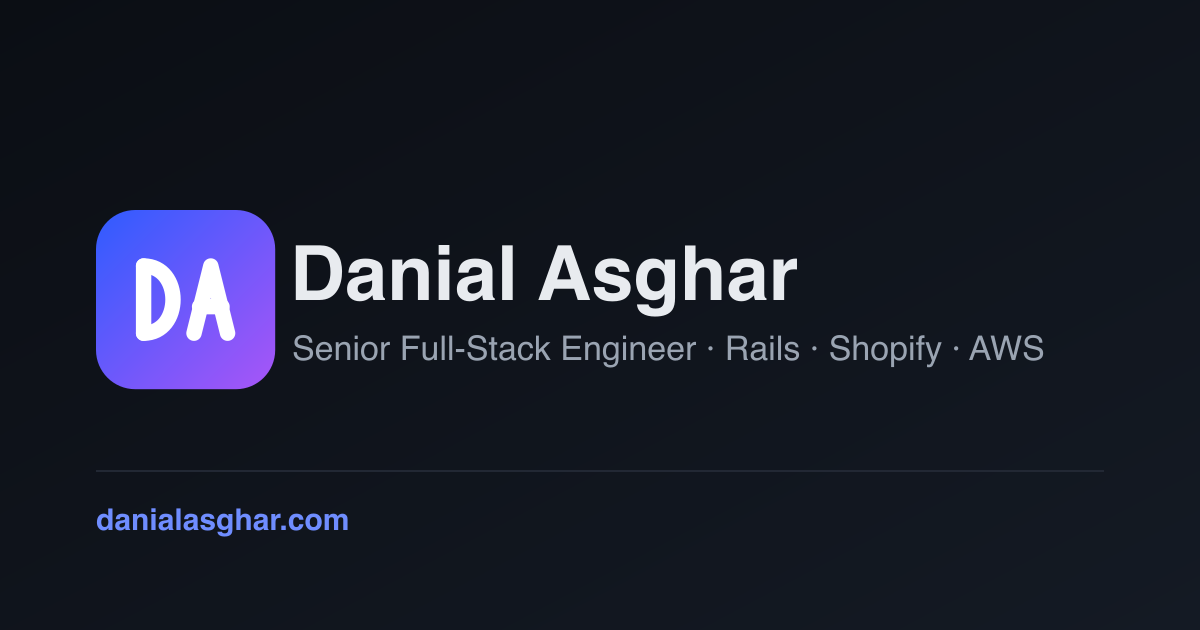
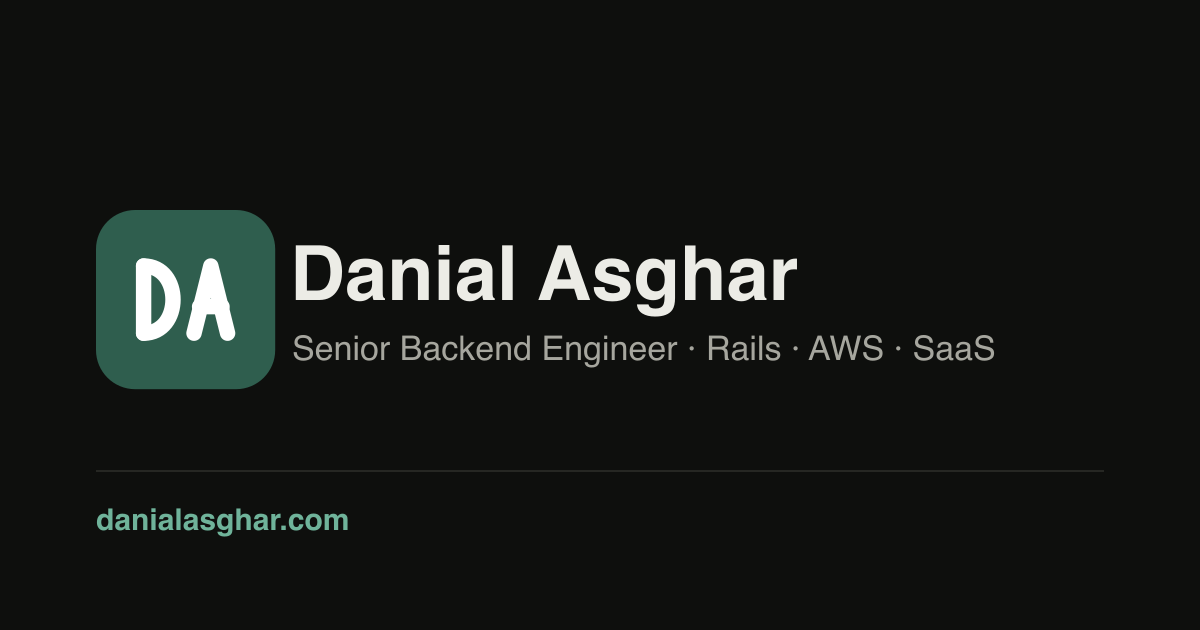
Refine layout components: Implement Google Fonts, Shiki dual-themes, custom spacing grids, and style tokens

Changed region(s): [[0.0617, 0.3317, 0.2467, 0.6333], [0.3392, 0.5127, 0.8942, 0.6032], [0.0617, 0.8143, 0.3083, 0.8444]]

diff --git a/src/styles/global.css b/src/styles/global.css
@@ -1,108 +1,109 @@
 /*
-  Design system for danialasghar.dev
-  Single source of truth: color tokens, 8px spacing scale, type scale, container widths.
-  Long-form prose uses the local Atkinson font; UI/headings use a system geometric stack
-  (renders as San Francisco / Segoe / Roboto — premium, zero network cost).
+  Design system — danialasghar.com  (Phase 2A/2B)
+  One source of truth: editorial color palette, 4px-based spacing, type scale, layout.
+  Headings/UI: IBM Plex Sans · Body/articles: Source Serif 4 · Code: JetBrains Mono.
 */
 
 :root {
-	/* ---- Color: light ---- */
-	--bg: #ffffff;
-	--bg-subtle: #f6f7f9;
-	--bg-elevated: #ffffff;
-	--text: #0f141a;
-	--text-muted: #56606e;
-	--text-faint: #8b94a1;
-	--border: #e7e9ec;
-	--border-strong: #d6dae0;
-	--card-bg: #ffffff;
+	/* ---- Color: light (editorial) ---- */
+	--bg: #FBFBFA;
+	--card-bg: #FFFFFF;       /* surface */
+	--bg-subtle: #F4F4F2;
+	--bg-elevated: #FFFFFF;
+	--text: #1A1A18;          /* primary */
+	--text-muted: #5C5C57;    /* secondary */
+	--text-faint: #8A8A83;    /* muted */
+	--border: #E6E6E1;
+	--border-strong: #D8D8D2;
 
-	--brand: #2f5cff;
-	--brand-hover: #1f47e0;
-	--brand-contrast: #ffffff;
-	--brand-soft: color-mix(in srgb, var(--brand) 12%, transparent);
-	--brand-ring: color-mix(in srgb, var(--brand) 30%, transparent);
+	--brand: #2F5E4E;         /* accent */
+	--brand-hover: #274F42;
+	--brand-contrast: #FFFFFF;
+	--brand-soft: color-mix(in srgb, var(--brand) 10%, transparent);
+	--brand-ring: color-mix(in srgb, var(--brand) 28%, transparent);
 
-	/* ---- Spacing: 8px grid ---- */
-	--s-1: 0.5rem;   /*  8 */
-	--s-2: 1rem;     /* 16 */
-	--s-3: 1.5rem;   /* 24 */
-	--s-4: 2rem;     /* 32 */
-	--s-5: 2.5rem;   /* 40 */
-	--s-6: 3rem;     /* 48 */
-	--s-8: 4rem;     /* 64 */
-	--s-10: 5rem;    /* 80 */
-	--s-12: 6rem;    /* 96 */
+	/* ---- Spacing: 4px base (canonical) ---- */
+	--space-1: 4px;
+	--space-2: 8px;
+	--space-3: 12px;
+	--space-4: 16px;
+	--space-5: 24px;
+	--space-6: 32px;
+	--space-7: 48px;
+	--space-8: 64px;
+	--space-9: 96px;
+	--space-10: 128px;
+
+	/* Back-compat aliases → mapped onto the canonical scale (existing components use --s-*) */
+	--s-1: var(--space-2);   /*  8 */
+	--s-2: var(--space-4);   /* 16 */
+	--s-3: var(--space-5);   /* 24 */
+	--s-4: var(--space-6);   /* 32 */
+	--s-5: 40px;             /* 40 (between grid steps) */
+	--s-6: var(--space-7);   /* 48 */
+	--s-8: var(--space-8);   /* 64 */
+	--s-10: 80px;            /* 80 (between grid steps) */
+	--s-12: var(--space-9);  /* 96 */
 
 	/* ---- Type scale ---- */
 	--fs-xs: 0.8125rem;
 	--fs-sm: 0.9375rem;
 	--fs-base: 1rem;
-	--fs-lg: 1.125rem;
+	--fs-lg: 1.1875rem;      /* 19px — article body */
 	--fs-xl: 1.375rem;
 	--fs-2xl: clamp(1.6rem, 1.1rem + 2vw, 2rem);
-	--fs-3xl: clamp(2rem, 1.4rem + 2.6vw, 2.75rem);
-	--fs-4xl: clamp(2.5rem, 1.6rem + 3.8vw, 3.75rem);
+	--fs-3xl: clamp(2rem, 1.4rem + 2.6vw, 2.6rem);
+	--fs-4xl: clamp(2.4rem, 1.6rem + 3.4vw, 3.4rem);
 
 	--lh-tight: 1.15;
 	--lh-snug: 1.35;
 	--lh-normal: 1.6;
-	--lh-prose: 1.75;
+	--lh-prose: 1.7;
 
-	--tracking-tight: -0.02em;
-	--tracking-tighter: -0.03em;
-	--tracking-wide: 0.08em;
+	--tracking-tight: -0.011em;
+	--tracking-tighter: -0.02em;
+	--tracking-wide: 0.06em;
 
-	/* ---- Fonts ---- */
-	--font-sans: -apple-system, BlinkMacSystemFont, "Segoe UI", "Inter", Roboto, Helvetica, Arial, sans-serif;
-	--font-prose: var(--font-atkinson), var(--font-sans);
-	--font-mono: ui-monospace, "SF Mono", "JetBrains Mono", "Fira Code", Menlo, monospace;
+	/* ---- Fonts (self-hosted via astro.config; vars carry their own fallbacks) ---- */
+	--font-sans: var(--font-plex), system-ui, -apple-system, "Segoe UI", sans-serif;
+	--font-prose: var(--font-serif), Georgia, Cambria, "Times New Roman", serif;
+	--font-mono: var(--font-jbmono), ui-monospace, SFMono-Regular, Menlo, monospace;
 
-	/* ---- Radius / shadow / layout ---- */
-	--radius-sm: 8px;
-	--radius: 12px;
+	/* ---- Radius ---- */
+	--radius-sm: 6px;
+	--radius: 10px;
 	--radius-lg: 16px;
-	--shadow-sm: 0 1px 2px rgba(15, 20, 26, .05);
-	--shadow: 0 1px 2px rgba(15, 20, 26, .04), 0 8px 24px rgba(15, 20, 26, .08);
-	--shadow-lg: 0 12px 40px rgba(15, 20, 26, .12);
+	--radius-full: 999px;
 
-	--container: 1080px;
+	/* ---- Shadows: subtle, editorial ---- */
+	--shadow-sm: 0 1px 2px rgba(26, 26, 24, .04);
+	--shadow: 0 1px 3px rgba(26, 26, 24, .05), 0 4px 14px rgba(26, 26, 24, .06);
+	--shadow-lg: 0 8px 30px rgba(26, 26, 24, .09);
+
+	/* ---- Layout ---- */
+	--container: 1120px;
 	--container-prose: 720px;
-	--container-width: var(--container); /* legacy alias */
 	--header-h: 64px;
-
-	/* ---- Legacy aliases (kept so existing markdown/code styles don't break) ---- */
-	--accent: var(--brand);
-	--box-shadow: var(--shadow);
-	--gray: 86, 96, 110;
-	--gray-light: 231, 233, 236;
-	--gray-dark: 15, 20, 26;
-	--black: 15, 20, 26;
 }
 
 [data-theme="dark"] {
-	--bg: #0b0e14;
-	--bg-subtle: #12161f;
-	--bg-elevated: #141a24;
-	--text: #e8ebef;
-	--text-muted: #9aa4b2;
-	--text-faint: #6b7482;
-	--border: #222834;
-	--border-strong: #2e3644;
-	--card-bg: #11151d;
+	--bg: #0E0F0D;
+	--card-bg: #161714;       /* surface */
+	--bg-subtle: #1A1B17;
+	--bg-elevated: #161714;
+	--text: #ECECE6;
+	--text-muted: #A6A69E;
+	--text-faint: #71716A;
+	--border: #262723;
+	--border-strong: #33342E;
 
-	--brand: #6f8dff;
-	--brand-hover: #8aa1ff;
-	--brand-contrast: #0b0e14;
+	--brand: #6FB39A;
+	--brand-hover: #86C3AC;
+	--brand-contrast: #0E0F0D;
 
 	--shadow-sm: 0 1px 2px rgba(0, 0, 0, .4);
-	--shadow: 0 1px 2px rgba(0, 0, 0, .4), 0 8px 28px rgba(0, 0, 0, .5);
-	--shadow-lg: 0 16px 48px rgba(0, 0, 0, .6);
-
-	--gray: 154, 164, 178;
-	--gray-light: 34, 40, 52;
-	--gray-dark: 232, 235, 239;
-	--black: 232, 235, 239;
+	--shadow: 0 1px 3px rgba(0, 0, 0, .4), 0 6px 20px rgba(0, 0, 0, .45);
+	--shadow-lg: 0 10px 34px rgba(0, 0, 0, .55);
 }
 
 *, *::before, *::after { box-sizing: border-box; }
@@ -131,13 +132,14 @@ body {
 
 /* ---- Headings ---- */
 h1, h2, h3, h4, h5, h6 {
+	font-family: var(--font-sans);
 	margin: 0 0 var(--s-2) 0;
 	color: var(--text);
 	line-height: var(--lh-tight);
 	letter-spacing: var(--tracking-tight);
-	font-weight: 700;
+	font-weight: 600;
 }
-h1 { font-size: var(--fs-4xl); letter-spacing: var(--tracking-tighter); font-weight: 800; }
+h1 { font-size: var(--fs-4xl); letter-spacing: var(--tracking-tighter); font-weight: 700; }
 h2 { font-size: var(--fs-3xl); }
 h3 { font-size: var(--fs-2xl); }
 h4 { font-size: var(--fs-xl); }
@@ -175,21 +177,32 @@ main { display: block; }
 /* ---- Buttons ---- */
 .btn {
 	display: inline-flex; align-items: center; justify-content: center; gap: .5rem;
-	padding: .65rem 1.15rem;
-	border-radius: var(--radius-sm);
+	padding: 10px 18px;
+	border-radius: var(--radius);
 	font-family: var(--font-sans);
 	font-weight: 600; font-size: var(--fs-sm);
 	line-height: 1;
 	text-decoration: none;
 	border: 1px solid transparent;
 	cursor: pointer;
-	transition: background .15s ease, border-color .15s ease, transform .15s ease, box-shadow .15s ease, color .15s ease;
+	transition: background .15s ease, border-color .15s ease, box-shadow .15s ease, color .15s ease;
 }
 .btn-primary { background: var(--brand); color: var(--brand-contrast) !important; }
-.btn-primary:hover { background: var(--brand-hover); transform: translateY(-1px); box-shadow: var(--shadow); }
-.btn-ghost { border-color: var(--border-strong); color: var(--text); }
-.btn-ghost:hover { background: var(--bg-subtle); border-color: var(--text-faint); }
-.btn-sm { padding: .5rem .85rem; font-size: var(--fs-xs); }
+.btn-primary:hover { background: var(--brand-hover); box-shadow: var(--shadow-sm); }
+/* .btn-secondary and legacy .btn-ghost are the same outline style */
+.btn-secondary, .btn-ghost { border-color: var(--border-strong); color: var(--text); background: transparent; }
+.btn-secondary:hover, .btn-ghost:hover { background: var(--bg-subtle); border-color: var(--text-faint); }
+.btn:disabled, .btn[aria-disabled="true"] { opacity: .5; cursor: not-allowed; box-shadow: none; }
+.btn-sm { padding: 7px 13px; font-size: var(--fs-xs); }
+
+/* ---- Card ---- */
+.card {
+	background: var(--card-bg);
+	border: 1px solid var(--border);
+	border-radius: var(--radius-lg);
+	transition: transform .2s ease, box-shadow .2s ease, border-color .2s ease;
+}
+.card:hover { transform: translateY(-2px); box-shadow: var(--shadow); border-color: var(--border-strong); }
 
 /* ---- Eyebrow / labels ---- */
 .eyebrow {
@@ -235,24 +248,41 @@ main { display: block; }
 @media (min-width: 960px) { .grid-cards { grid-template-columns: repeat(3, 1fr); } }
 
 /* ---- Code / prose primitives ---- */
+/* Inline code: neutral (not accent-colored) for a calm editorial feel */
 code {
 	font-family: var(--font-mono);
-	font-size: .9em;
+	font-size: .875em;
 	background: var(--bg-subtle);
-	color: var(--brand);
+	color: var(--text);
 	border: 1px solid var(--border);
-	padding: .15em .4em;
-	border-radius: 4px;
+	padding: .12em .38em;
+	border-radius: var(--radius-sm);
 }
+/* Code blocks (Shiki dual-theme). Container styling is ours; syntax colors are
+   the light theme by default, swapped to dark tokens under [data-theme="dark"]. */
 pre {
 	font-family: var(--font-mono);
-	padding: var(--s-3);
+	padding: var(--space-5);
 	border-radius: var(--radius);
 	border: 1px solid var(--border);
 	background: var(--bg-subtle) !important;
 	overflow-x: auto;
+	font-size: .9rem;
+	line-height: 1.65;
 }
-pre > code { all: unset; font-family: var(--font-mono); }
+pre code {
+	all: unset;
+	font-family: var(--font-mono);
+	background: transparent;
+	border: 0;
+}
+[data-theme="dark"] pre.astro-code,
+[data-theme="dark"] pre.astro-code span {
+	color: var(--shiki-dark) !important;
+	font-style: var(--shiki-dark-font-style) !important;
+	font-weight: var(--shiki-dark-font-weight) !important;
+	text-decoration: var(--shiki-dark-text-decoration) !important;
+}
 
 blockquote {
 	border-left: 3px solid var(--brand);

diff --git a/src/consts.ts b/src/consts.ts
@@ -6,7 +6,7 @@ export const SITE_DESCRIPTION =
 
 // Personal brand + contact
 export const NAME = 'Danial Asghar';
-export const ROLE = 'Senior Full-Stack Engineer';
+export const ROLE = 'Senior Backend Engineer';
 export const EMAIL = 'hello@danialasghar.com';
 
 export const SOCIALS = {
